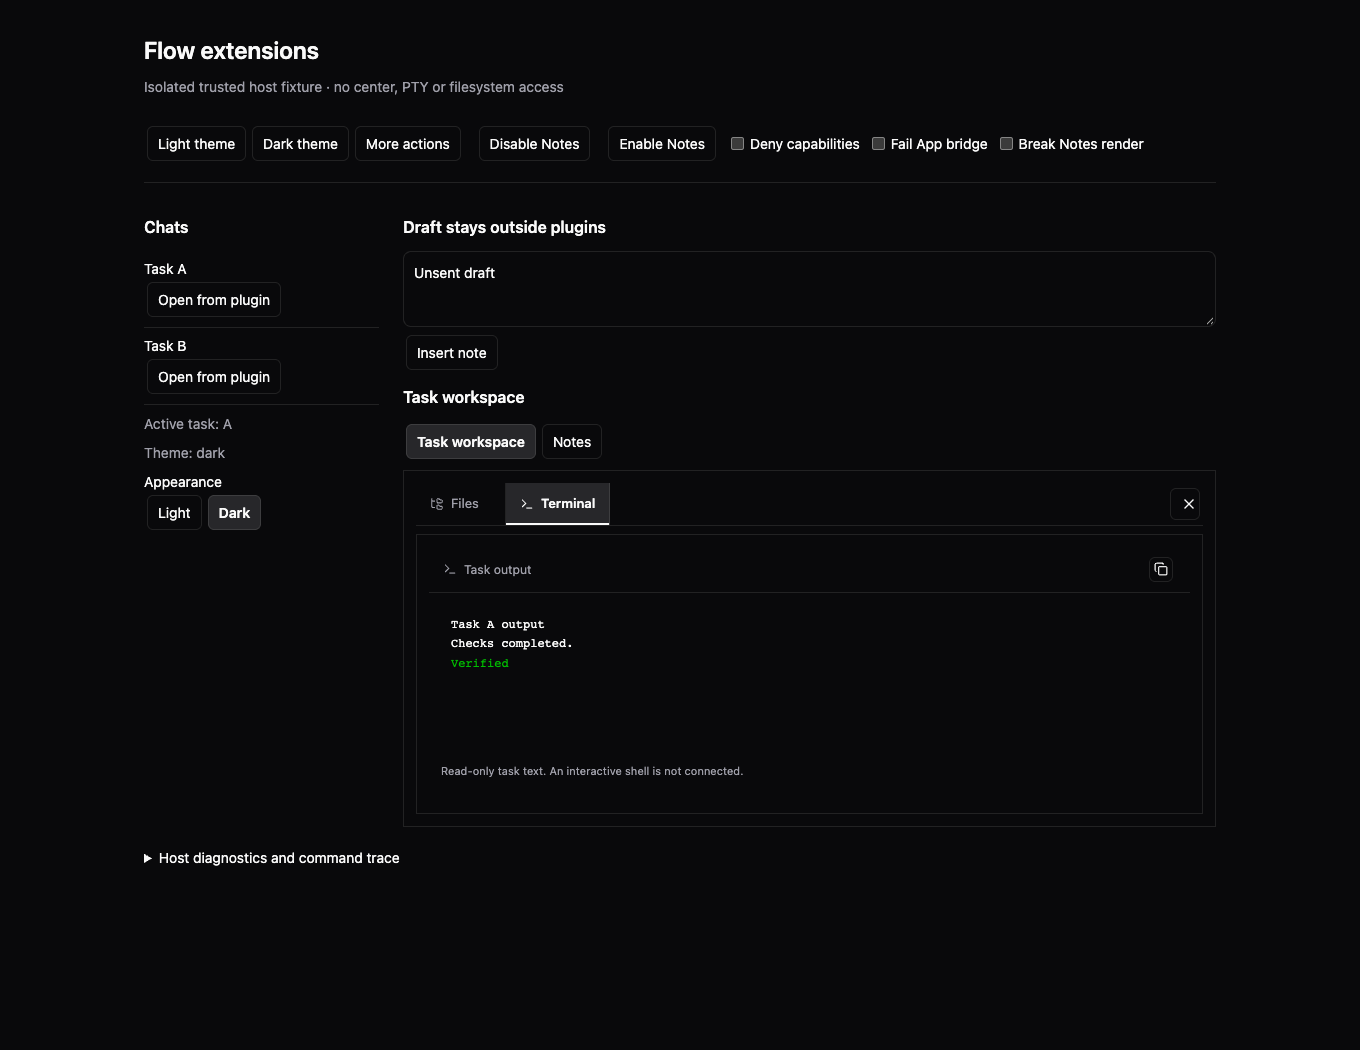
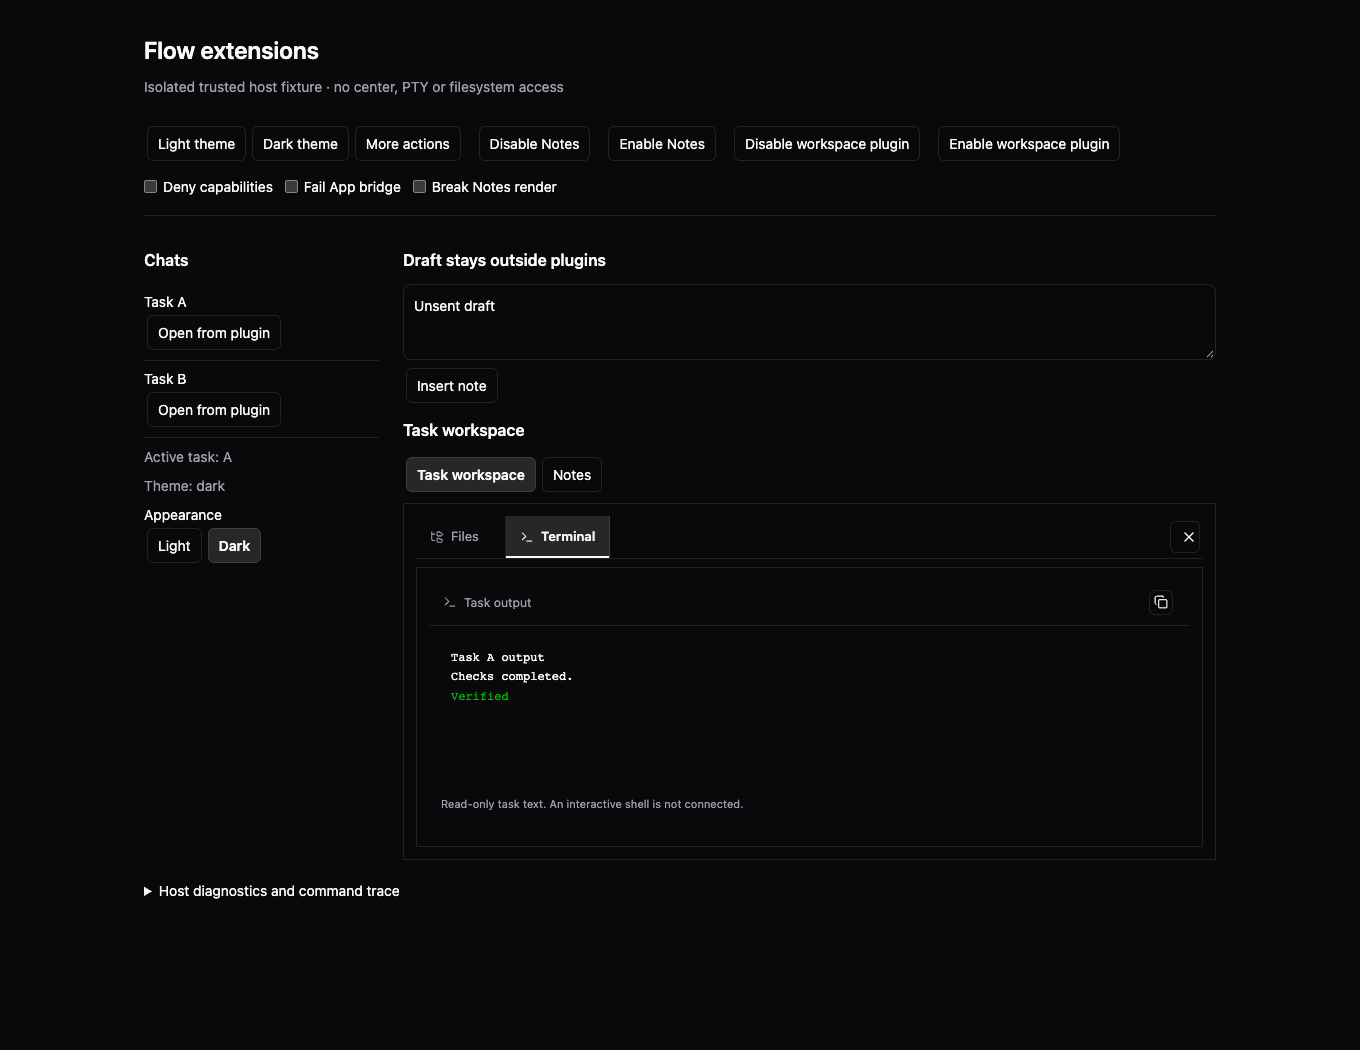
docs(web): bind layout regression evidence and coordination receipt

diff --git a/docs/evidence/wpf-p01/validation.md b/docs/evidence/wpf-p01/validation.md
@@ -1,15 +1,15 @@
 # WPF-P01 validation and handoff
 
-Owner implementation target: `e5341915ebbffd9a667f68f7d1ca9c45c14c7c52`; input base: `c8900a6fdbca20e683fda6fc808c135f0569c116`. Node24.20.0/pnpm9.15.4, Chrome154; 2026-10-06 02:54 UTC. This is the isolated trusted host module and UI fixture, not proof of M02 App integration or a real center.
+Owner implementation target: `6ce3ba0a41d51f26cd6fbceddfbb2f80e4931bd6`; input base: `c8900a6fdbca20e683fda6fc808c135f0569c116`. Node24.20.0/pnpm9.15.4, Chrome154; 2026-10-06 03:03 UTC. This is the isolated trusted host module and UI fixture, not proof of M02 App integration or a real center.
 
 ## Checks actually run
 
 - `pnpm --filter @flow/web typecheck`: PASS.
-- `pnpm exec vitest run apps/web/test/plugin-host.test.ts`: 14 PASS. [Machine report](module-results.json). Covers registration without load, JSON/ID/API validation, command fan-in, per-invocation B context, activation rollback/retry, disable during load/activation, late cleanup, stale contexts, reverse cleanup despite errors, changing grants, async/bridge errors, immutable stores, task/reference scope, theme fallback, host connection disposal, sync/async subscriber isolation and own-property slot validation.
-- `pnpm --dir apps/web exec playwright test --config test/plugin-host.config.ts`: 9 PASS. [Machine report](browser-results.json). Actual WorkspacePanels Files/Terminal/reference keyboard focus, local B row command, actual theme adapter and custom fallback including computed token restoration, draft preservation, real sample menu and panel, loader failure retry, local render ErrorBoundary recovery, dynamic authorization, focused tab removal, bridge error visibility, light/dark/390px reduced-motion layout. Injected render error is expected and handled locally; no claim that it produces no console diagnostics.
-- Vite production build with `src/plugins/fixture/index.html` as explicit entry: PASS. [Asset report](build-results.json). Entry239364bytes/gzip73928; lazy workspace73044/gzip24098; theme804/gzip493. This fixture starts with its workspace visible, so it activates that module immediately; separate emitted chunks alone do not establish deferred main-App loading or an improved product performance budget.
+- `pnpm exec vitest run apps/web/test/plugin-host.test.ts`: 15 PASS. [Machine report](module-results.json). Covers registration without load, JSON/ID/API validation, command fan-in, per-invocation B context, activation rollback/retry, disable during load/activation, late cleanup, stale contexts, reverse cleanup despite errors, changing grants, async/bridge errors, immutable stores, task/reference scope, theme fallback, host connection disposal, sync/async subscriber isolation and own-property slot validation.
+- `pnpm --dir apps/web exec playwright test --config test/plugin-host.config.ts`: 12 PASS. [Machine report](browser-results.json). Actual WorkspacePanels Files/Terminal/reference keyboard focus, local B row command, actual theme adapter and custom fallback including computed token restoration, draft preservation, real sample menu and panel, loader failure retry, local render ErrorBoundary recovery, dynamic authorization, focused tab removal, bridge error visibility, light/dark/390px reduced-motion layout. Injected render error is expected and handled locally; no claim that it produces no console diagnostics.
+- Vite production build with `src/plugins/fixture/index.html` as explicit entry: PASS. [Asset report](build-results.json). Entry241054bytes/gzip74401; lazy workspace73116/gzip24111; theme804/gzip493. This fixture starts with its workspace visible, so it activates that module immediately; separate emitted chunks alone do not establish deferred main-App loading or an improved product performance budget.
 - Production static fixture smoke: PASS, 7 asset requests200 and zero page errors; actual WorkspacePanels output/theme/Notes, frozen context and local PH-R3 alert. [Report](production-smoke.json). Temporary5191 preview was stopped after the check.
-- `git diff --check`: PASS. Final implementation diff from input base only plugins directory and three dedicated test/config files. Root manifest, existing App/Thread/workspace/themes/client/contracts unchanged.
+- Source/docs diff check excluding the raw dependency-lock.patch: PASS. Full diff check reports preserved blank context-line whitespace inside that patch; it is retained as an exact applicable patch, not claimed clean. Final implementation diff from input base only plugins directory and three dedicated test/config files. Root manifest, existing App/Thread/workspace/themes/client/contracts unchanged.
 - Temporary install lock exported fully as [dependency-lock.patch](dependency-lock.patch), root lock restored and `git apply --check` passes against the input lock. No new direct package dependencies. Installed versions remain the inherited exact `apps/web/package.json` versions (React19.3.0, Vite8.3.2, assistant-ui0.15.23, ansi-to-react6.2.6 etc.); only original Lead integrates the shared lock.
 
 ## Preview and reproduction
@@ -36,10 +36,14 @@ await build({build:{outDir:'/tmp/flow-plugin-fixture-output',rolldownOptions:{in
 
 ## Integration boundary and remaining work
 
-M02 owns App/Thread/workspace integration. The five implementation commits, in order, are `2dad8cac7586c294a7c559b31161b201f791199e`, `46164d611e6ccf836ab1efa1f5091288976b80d5`, `3d8121006fea24b6b9f25457eb363a10110781ad`, `d81075c1220fc0305bf698d84823caa4877c2d89`, `e5341915ebbffd9a667f68f7d1ca9c45c14c7c52`. Do not copy code or implement a second host; coordinate any host changes with this owner. See [frozen interface](interface.md).
+M02 owns App/Thread/workspace integration. The six implementation commits, in order, are `2dad8cac7586c294a7c559b31161b201f791199e`, `46164d611e6ccf836ab1efa1f5091288976b80d5`, `3d8121006fea24b6b9f25457eb363a10110781ad`, `d81075c1220fc0305bf698d84823caa4877c2d89`, `e5341915ebbffd9a667f68f7d1ca9c45c14c7c52`, `6ce3ba0a41d51f26cd6fbceddfbb2f80e4931bd6`. Do not copy code or implement a second host; coordinate any host changes with this owner. See [frozen interface](interface.md).
 
 App must validate authoritative task/reference membership, retain the connection epoch, dispose old host on disconnect/change, reject an aborted/stale command at the bridge, and never expose client/token in plugin context. The fixture demonstrates a safe supplied bridge and artificial data only. M02's native workspace tabs should remain the App layout authority; PluginTabs is optional convenience, not a mandatory second tab host. Real composer insertion remains explicitly unsupported in M02 until its safe seam exists; fixture insertion does not claim product support.
 
 Pending: whole-candidate independent review, M02 explicit cherry-pick/App acceptance and real-center integration. No third-party sandbox, package installation/lifecycle, CLI/backend X01 implementation, arbitrary filesystem/PTY, settings persistence, Firefox/Safari/screen-reader or low-end performance claim. No automatic approval inheritance from an implementation SHA to metadata HEAD.
 
 PH-R3 owner repair at e534191 adds Notes local role=alert, failure recovery and frozen renderer context. Root independently reproduced failure and then verified repair with real CUA5190, including successful retry and cleared alert; whole review conclusion awaits the additional M02 React/interface read-only assessment. The 14 module test result remains applicable because all five reviewed module files are unchanged from3d81210; final9 browser/typecheck/build/smoke ran on repaired implementation.
+
+PH-R4 repaired at6ce3ba0:15 module tests include synchronous view authority;12 browser journeys include StrictMode A-B-A and Notes roundtrips, retained detail tabs/tree expansion/terminal follow, zero unvisited detail requests, subscription0↔1, no A data in B, capability revocation and disable cleanup. Production static smoke repeats A-B-A/Notes preservation and PH-R3 failure on the actual built assets. App controls the active workspace tab separately; tests return its controlled tab toFiles before proving disable clears the former internal opened-tab cache. Read-only reference data remains separate from the retained layout.
+
+[Coordination receipt](coordination-receipt.json) preserves the committed migration receipt and current active/version1 verification. No new take, scope extension, release or handoff was performed during review fixes. Original root lock is restored.

diff --git a/plans/wpf-p01-plugin-host/status.md b/plans/wpf-p01-plugin-host/status.md
@@ -2,15 +2,15 @@
 
 | 字段 | 记录 |
 | --- | --- |
-| 最近更新 / 最近main同步核验 | 2026-10-06 02:54 UTC / 输入main8c57已受控合入 |
+| 最近更新 / 最近main同步核验 | 2026-10-06 03:03 UTC / 输入main8c57已受控合入 |
 | Plan | [plan.md](plan.md) |
 | 阶段 | M2 |
 | 优先级 | 2 |
-| 当前产出 | 完整host/React slots/真实WorkspacePanels与theme builtin/sample；14模块+9browser通过 |
+| 当前产出 | PH-R4固定候选6ce3ba0；15模块+12browser/typecheck/build/生产fixture冒烟通过 |
 | 下一可用交付 | 整体独立review后交M02唯一owner明确cherry-pick与App验收 |
-| 当前阻塞 | NONE |
+| 当前阻塞 | ACTIVE: PH-R4布局缓存回归修复中，待root/M02独立复审 |
 | 需用户决定 | NONE |
-| 实现目标 | e5341915ebbffd9a667f68f7d1ca9c45c14c7c52 |
+| 实现目标 | 6ce3ba0a41d51f26cd6fbceddfbb2f80e4931bd6 |
 | 实现范围 | apps/web/src/plugins, apps/web/test/plugin-host.test.ts, apps/web/test/plugin-host.browser.ts, apps/web/test/plugin-host.config.ts |
 | 单一status owner / model | w01_owner / 派发gpt-6-astra ultra；运行时无独立型号查询接口 |
 | Worktree | `/Users/citrine/Projects/AgentHarness/Flow-worktrees/web-plugin-host` |
@@ -18,15 +18,15 @@
 | 工作基线 / HEAD | `c8900a6fdbca20e683fda6fc808c135f0569c116` / 最近实采metadata `27a12ec17eac0bd68fe7c4ff043f51de60254f36` |
 | 工作树dirty状态 | CLEAN；27a12ec实采clean，根manifest/lock无差异；后续仅文档更新 |
 | 工作分支状态 | in-progress；实现完成，整体review/M02接入待完成 |
-| 检查状态 | PASSED；target e5341915ebbffd9a667f68f7d1ca9c45c14c7c52：14模块tests、9 browser tests、Web typecheck、fixture生产build；不代表M02主App验收 |
+| 检查状态 | PASSED；target 6ce3ba0a41d51f26cd6fbceddfbb2f80e4931bd6：15模块tests、12 browser tests、Web typecheck、fixture生产build；不代表M02主App验收 |
 | 已集成main状态 / HEAD | NOT_INTEGRATED；输入main `8c57f2f97345167207fa0d2590e9ad6310c922d4`，WPF-P01实现完成但未集成 |
-| Review | [review.md](review.md)，整体CHANGES_REQUESTED历史结论 / 所有finding已CLOSED待最终结论，target e5341915ebbffd9a667f68f7d1ca9c45c14c7c52；五模块3d81210 APPROVED，PH-R1/R2/R3 CLOSED |
+| Review | [review.md](review.md)，整体CHANGES_REQUESTED历史结论 / 所有finding已CLOSED待最终结论，target 6ce3ba0a41d51f26cd6fbceddfbb2f80e4931bd6；五模块3d81210 APPROVED，PH-R1/R2/R3 CLOSED |
 
 | TODO ID | 状态 | Owner | 完成证据/检查 |
 | --- | --- | --- | --- |
 | WPF-P01-01 | completed | w01_owner | [冻结接口](../../docs/evidence/wpf-p01/interface.md)；M02确认ports/精确上下文/bridge契约 |
-| WPF-P01-02 | completed | w01_owner | e534191完整模块和真实builtin/sample；[验证](../../docs/evidence/wpf-p01/validation.md) |
-| WPF-P01-03 | completed | w01_owner | 14模块+9browser/typecheck/build；scope限定fixture |
+| WPF-P01-02 | completed | w01_owner | 6ce3ba0完整模块和真实builtin/sample；[验证](../../docs/evidence/wpf-p01/validation.md) |
+| WPF-P01-03 | completed | w01_owner | 15模块+12browser/typecheck/build；scope限定fixture |
 | WPF-P01-04 | in-progress | w01_owner | 模块3d81210 APPROVED；整体review/M02接入待完成 |
 
 ## 已完成与证据
@@ -39,7 +39,7 @@
 
 ## 下一步与handoff
 
-预览http://127.0.0.1:5190/src/plugins/fixture/index.html；[启动/证据/四个实现提交](../../docs/evidence/wpf-p01/validation.md)。root审修复整体候选e534191，PH-R3已独立复验CLOSED；M02 owner明确cherry-pick并验收后才能称全feature完成。
+预览http://127.0.0.1:5190/src/plugins/fixture/index.html；[启动/证据/四个实现提交](../../docs/evidence/wpf-p01/validation.md)。root/M02审修复整体候选6ce3ba0，PH-R1/R2/R3已CLOSED，PH-R4待独立复审；M02 owner明确cherry-pick并验收后才能称全feature完成。
 
 ## 需要用户决定
 
@@ -50,3 +50,5 @@
 唯一status已转移至本平级计划目录；通知管理者将nested草案转交入口并请Lead/D03登记task→此worktree。管理者转述root于02:38:47.600Z实采：D03已登记22源，P01 human.complete=true、missing/issues为空；后续更新仍以本唯一事实源为准。
 
 02:50:58.898Z owner只读复核4320：来源本树、HEAD27a12ec、dirty=false、human.complete=true、status.errors/implementation.errors/issues均空，implementationProof=unchanged；checks原短SHA显示unknown，本次更正为完整targetSHA。无服务停止/重启或其他owner文件写入。
+
+领取：D04 claim0686525b-d323-49b5-affa-cefc66cb13be v1 active，migration receipt committedAt2026-10-06T02:48:43.178Z；02:59:24.179Z只读CLI复核原6项literal scope/owner/tree一致。review修复期间保留；[回执](../../docs/evidence/wpf-p01/coordination-receipt.json)。当前实现目标6ce3ba0，未扩大scope或写App/workspace。

diff --git a/plans/wpf-p01-plugin-host/review.md b/plans/wpf-p01-plugin-host/review.md
@@ -1,14 +1,14 @@
 # WPF-P01 独立审查
 
-**CHANGES_REQUESTED（整体） / APPROVED（五模块）**。root独立复审3d8121006fea24b6b9f25457eb363a10110781ad五模块通过；整体target e5341915ebbffd9a667f68f7d1ca9c45c14c7c52复审中。原W01 approval不覆盖本任务。
+**CHANGES_REQUESTED（整体） / APPROVED（五模块）**。root独立复审3d8121006fea24b6b9f25457eb363a10110781ad五模块通过；整体target 6ce3ba0a41d51f26cd6fbceddfbb2f80e4931bd6复审中。原W01 approval不覆盖本任务。
 
-- Review target commit：`e5341915ebbffd9a667f68f7d1ca9c45c14c7c52`（完整host/UI）。
+- Review target commit：`6ce3ba0a41d51f26cd6fbceddfbb2f80e4931bd6`（完整host/UI）。
 - Base：`c8900a6fdbca20e683fda6fc808c135f0569c116`；输入main8c57与已审W01a22ae38。
 - Worktree：`/Users/citrine/Projects/AgentHarness/Flow-worktrees/web-plugin-host`；branch `codex/web-plugin-host`。
 - Scope：新增plugins模块、plugin-host tests、WPF-P01计划与证据。App挂载由M02 owner独立集成。
 - Criteria：见plan的生命周期/ID/API版本/动态权限/错误隔离/清理/窄订阅/真实builtin/sample/双主题键盘/失败恢复验收。
-- 已执行：owner14模块/9browser/typecheck/fixture build；root五模块14tests与修复diff独立复审。未执行：整体UI独立review与M02 App接入。
-- Findings/severity/blocking：未评估，不等于无问题。
+- 已执行：owner15模块/12browser/typecheck/fixture build；root五模块14tests与修复diff独立复审。未执行：整体UI独立review与M02 App接入。
+- Findings/severity/blocking：PH-R1/R2/R3 CLOSED；PH-R4 P2 blocking修复中，待新target独立复审。
 - 作者回应/修复commit/复审：等待独立结论，必须绑定完整SHA。
 
 ```text
@@ -34,3 +34,9 @@ P2 blocking，targetd81075c：Notes useState记录error但未渲染，root CUA51
 ## PH-R3独立复审 CLOSED（root / GPT-6只读，2026-10-06 02:54 UTC）
 
 修复target `e5341915ebbffd9a667f68f7d1ca9c45c14c7c52`。root核三文件diff和working实现diff empty，CUA5190 fresh Notes→Fail App bridge→Use Ocean显示局部Fixture bridge failed且主题不变；关Fail重试成功Ocean并清空alert。data-context-frozen=true。root已检查B局部context、引用键盘、菜单、主题fallback/draft、render retry/bridge失败；独立typecheck为d810。整体正式APPROVED等待M02额外只读React/接口审查，不提前声称主App已接入。
+
+## PH-R4 — 跨任务/面板切换布局缓存丢失
+
+P2 blocking，targete534191（d810也存在）。M02 owner独立Chrome及root CUA双复现：A打开report→B→A，report tab由1变0；PluginView task key/loading卸载真实WorkspacePanels外层缓存。作者接受，在plugins内用稳定renderer/RenderBoundary身份、显式visited+Activity、同步view授权和不匹配时空数据来保留布局且隔离数据；未修改App或既有workspace。新增StrictMode任务/面板往返、树展开/终端follow、订阅暂停恢复、无预取/无串数据、权限拒绝与disable清理。最终修复SHA及独立复审待补。
+
+PH-R4 owner修复commit：`6ce3ba0a41d51f26cd6fbceddfbb2f80e4931bd6`；15模块/12浏览器/typecheck/生产fixture build+冒烟通过。源码/文档diff check排除原始dependency-lock.patch后通过；完整patch保留空白上下文，不能称全量diff无warning。root和M02独立复审待回，当前整体不提前APPROVED。

diff --git a/docs/evidence/wpf-p01/interface.md b/docs/evidence/wpf-p01/interface.md
@@ -55,6 +55,7 @@ interface PluginHost {
   dispose():Promise<void>; // invalidates every generation; App creates a new host for a new connection
   list():readonly PluginSummary[];
   execute(commandId:string,args?:unknown,invocation?:ResourceContext):Promise<OperationResult>; // trusted App/UI entry only
+  checkView(contributionId:string,context:ResourceContext):OperationResult<void>; // synchronous read authorization, never activates
   getThemes():readonly ThemeDefinition[];
   getSlotSnapshot(slot:SlotId):readonly ContributionView[];
   subscribeSlot(slot:SlotId,listener:()=>void):()=>void;
@@ -96,3 +97,7 @@ App/ExtensionSlot passes the actual local discriminated context into the trusted
 Slot→kind: activityBar/sidebar.header/sidebar.footer/settings use global; sidebar.item.actions and chat.task.actions use task; chat.header accepts task/composer/global; chat.message.actions requires message; chat.composer.actions requires composer; workspace.header/tabs/actions require workspace; artifact.actions requires reference. Reference-load command additionally checks argument taskId/referenceId against its bound task/workspace/reference context; App verifies membership in the current authoritative projection. chat.open is intentionally navigation and may target a feed/index authoritative ID, not only the active ID.
 
 Workspace builtin's display.task.id and all references must match the provided workspace context.taskId before rendering or dispatch. Its activeTab uses exact WorkspaceTabId. flow.reference.load returns void; details update through the private read-only display port. flow.composer.insertText returns explicit unsupported from the App bridge until a safe composer seam exists; the fixture may supply that supported bridge for draft-preservation testing, without claiming main integration.
+
+PH-R4 lifecycle clarification: PluginView keeps a renderer instance across resource changes; only explicit retry or plugin instance removal resets its boundary. The binding checks current view capability synchronously before rendering, hides pending authorized transitions with Activity, and removes denied renderers. PluginTabs mounts only explicitly visited panels; Activity is not itself an unvisited activation guard. Hidden effects/subscriptions pause; disable/host.dispose removes instances. Workspace adapter keeps the original WorkspacePanels outer cache alive across matching task changes and supplies null/empty data during a mismatch. App native tabs should apply the same stable identity/visited principle when mounting PluginView directly.
+
+Connection lifetime requirement: App must key/unmount the entire PluginView/PluginTabs subtree by its connectionScope/host lifetime and call oldHost.dispose before replacing the connection. Merely passing a different already-activated host prop into an existing subtree is not a supported state-retention boundary: a third-party trusted module could reuse the same renderer function and otherwise preserve local component state. Task/resource changes within one connection preserve layouts; connection changes must reset them. This is an explicit I01 integration test, not yet main-App proof.

diff --git a/docs/evidence/wpf-p01/quality.md b/docs/evidence/wpf-p01/quality.md
@@ -25,3 +25,11 @@
 ## 2026-10-06 02:54 UTC — review修复clean-code
 
 PH-R3暴露实际漏项：sample Notes state保存error却没渲染；此前意图补充的文本替换没有命中JSX，而只测ExtensionSlot按钮无法覆盖面板调用。修复后直接读JSX，增加面板本地alert、真实失败/成功重试路径；root CUA独立关闭该finding。另自查renderer props.context原先仍是App原对象，改validateContext不可变副本并实际browser断言frozen=true（bind闭包此前已捕获不可变副本）。修复e534191通过typecheck、9浏览器、生产build/静态冒烟；14模块实现无变化，复用已独立通过结果。验证失败路径绑定实际UI动作，避免仅测试内部成功路径。根lock未重新改写，追加metadata不重跑全库。
+
+## 2026-10-06 03:01 UTC — 约30分钟安全停点 / PH-R4
+
+Scope仍仅plugins与专用tests。此前按task重建RenderBoundary/loading分支卸载真实WorkspacePanels导致外层per-task布局Map丢失，M02独立review与root CUA确认PH-R4。当前改稳定实例+React19 Activity，并显式visited门禁；初次未访问不激活，隐藏暂停Effects，disable移除实例。data/context不匹配时保留外层实例但传null/空details；同步checkView重新验证资源/grant，拒绝时卸载不渲染数据。workspace原组件、App未改。
+
+新增真实StrictMode A-B-A/Notes3轮验证打开标签、树展开、terminal follow状态、无A内容串到B、未访问零详情、workspace订阅0↔1与disable清零；App受控tab为独立输入，因此cache清理测试在disable前先显式切回Files，避免把App主动detail选择误判为旧cache复活。整段验证完成后绑定新SHA，PH-R4待独立复审。
+
+共同领取规则已读主仓AGENTS‘多Lead领取与交接’及D04 README。02:59:24.179Z只读CLI核P01 migration claim0686525b-d323-49b5-affa-cefc66cb13be v1 active，lead external_web_d01_owner/worker w01_owner，原6项literal scope一致；W01 claim3a3b963b-aa40-4c50-8324-4445ed8889df v2仅plans/w01-web。配置仅source未打印；不重新take，review修复期保留，占用变更须当前version已提交receipt。
